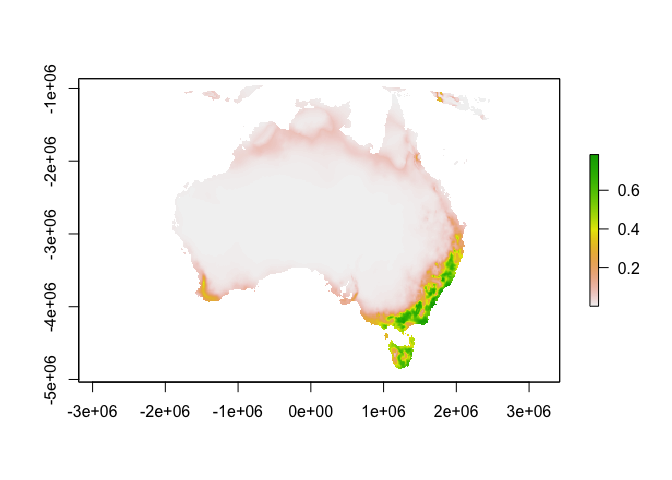
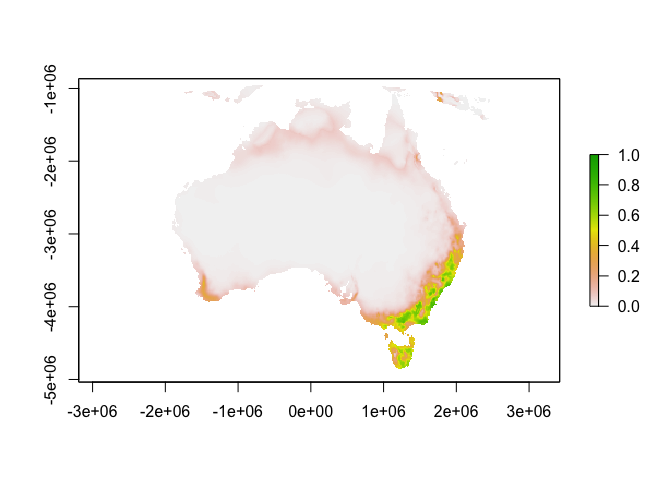
Use common colour ramp in example

diff --git a/README.md b/README.md
@@ -116,13 +116,13 @@ pred <- rmaxent::project(m$model_full, bio_moll)
     Calculating contribution of feature 10 of 10
 
 ``` r
-plot(pred$prediction_logistic)
+plot(pred$prediction_logistic, zlim=c(0, 1))
 ```
 
 ![](README_files/figure-gfm/unnamed-chunk-8-1.png)<!-- -->
 
 ``` r
-plot(pred$prediction_cloglog)
+plot(pred$prediction_cloglog, zlim=c(0, 1))
 ```
 
 ![](README_files/figure-gfm/unnamed-chunk-8-2.png)<!-- -->
